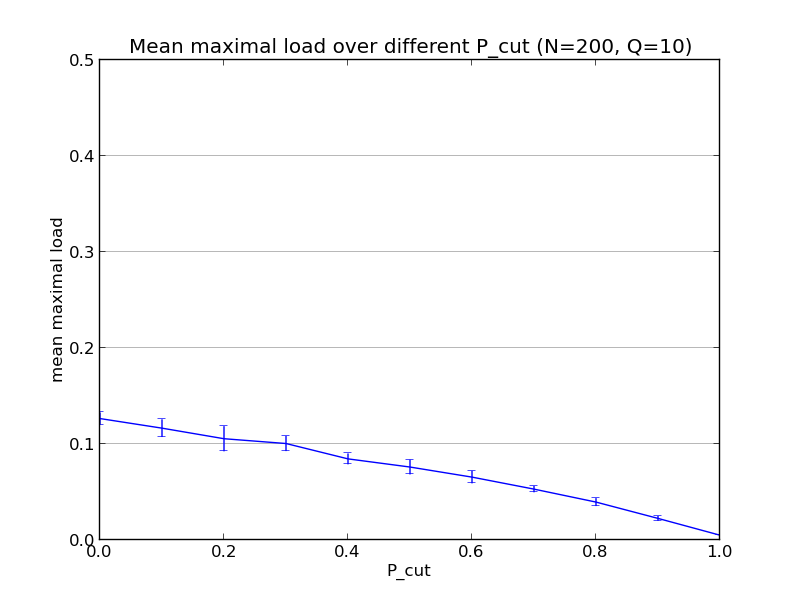
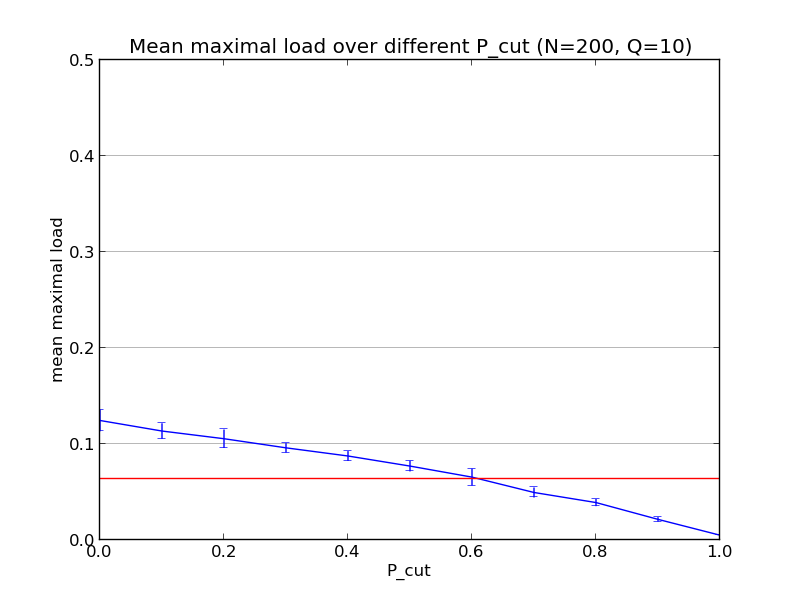
ex3 mit roter linie im plot

diff --git a/tex/dat/ex3-table-N200-Q10-C95.tex b/tex/dat/ex3-table-N200-Q10-C95.tex
@@ -1,0 +1,17 @@
+\begin{table}[H] 
+\centering 
+\begin{tabular}{|l|l|l|l|l|l|l|l|} 
+\hline 
+$P_{cut} & N & tests & C-level & maximal load & lower bound & upper bound & $P_{N,max}$\\ 
+ \hline \hline 
+0.0 & 200 & 10 & 95.0 $\%$  & 0.12 & 0.12 & 0.13 & 24.90 \\ 
+0.1 & 200 & 10 & 95.0 $\%$  & 0.11 & 0.11 & 0.11 & 22.70 \\ 
+0.2 & 200 & 10 & 95.0 $\%$  & 0.11 & 0.10 & 0.11 & 21.10 \\ 
+0.3 & 200 & 10 & 95.0 $\%$  & 0.10 & 0.10 & 0.10 & 19.20 \\ 
+0.4 & 200 & 10 & 95.0 $\%$  & 0.09 & 0.09 & 0.09 & 17.50 \\ 
+0.5 & 200 & 10 & 95.0 $\%$  & 0.08 & 0.08 & 0.08 & 15.40 \\ 
+0.6 & 200 & 10 & 95.0 $\%$  & 0.07 & 0.06 & 0.07 & 13.10 \\ 
+0.7 & 200 & 10 & 95.0 $\%$  & 0.05 & 0.05 & 0.05 & 9.90 \\ 
+0.8 & 200 & 10 & 95.0 $\%$  & 0.04 & 0.04 & 0.04 & 7.80 \\ 
+0.9 & 200 & 10 & 95.0 $\%$  & 0.02 & 0.02 & 0.02 & 4.30 \\ 
+1.0 & 200 & 10 & 95.0 $\%$  & 0.01 & 0.01 & 0.01 & 1.00 \\ 
